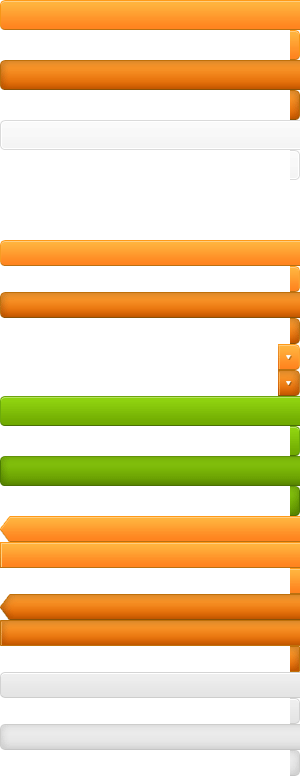
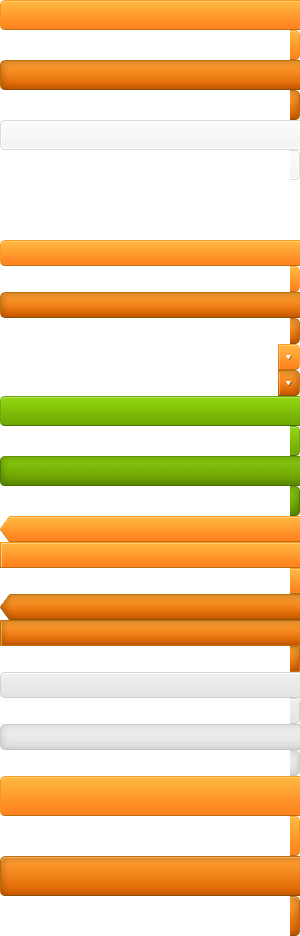
faideals / last fixes

diff --git a/public/stylesheets/style.css b/public/stylesheets/style.css
@@ -1420,6 +1420,29 @@ a.bt_max
     text-align: center;
 }
 
+a.bt_big
+{
+    background-position: 0 -776px
+}
+
+a.bt_big span
+{
+    background-position: right -816px;
+    height: 40px;
+    line-height: 40px;
+    font-size: 14px;
+}
+
+a.bt_big:hover
+{
+    background-position: 0 -856px;
+}
+
+a.bt_big:hover span
+{
+    background-position: right -896px;
+}
+
 
 
 .frm .frm_head .frm_hc a.bt
@@ -1841,4 +1864,17 @@ span.cke_skin_kama
     padding: 1px;
     background: #fff;
     border: 1px solid #ddd;
+}
+
+
+/* --- deal - social share buttons --- */
+
+.social_share
+{
+    padding: 20px 0;
+}
+
+.social_share li
+{
+    display: inline;
 }
